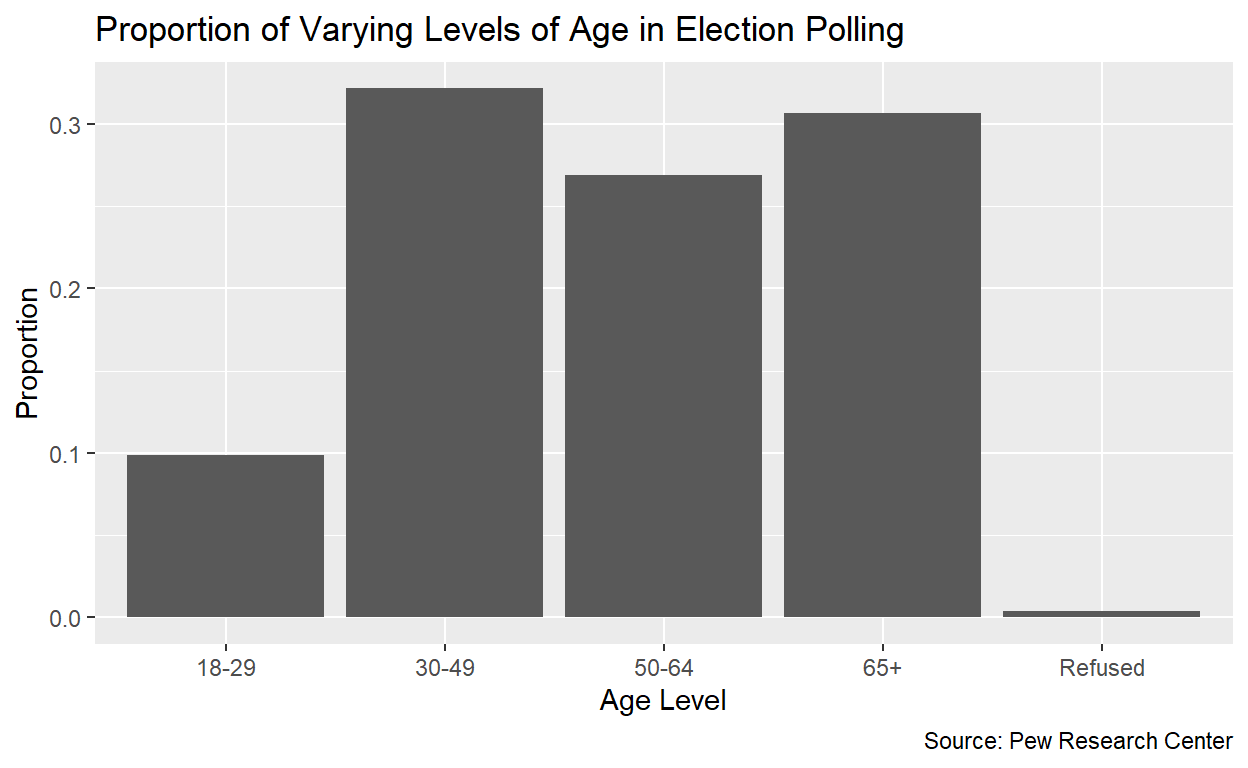
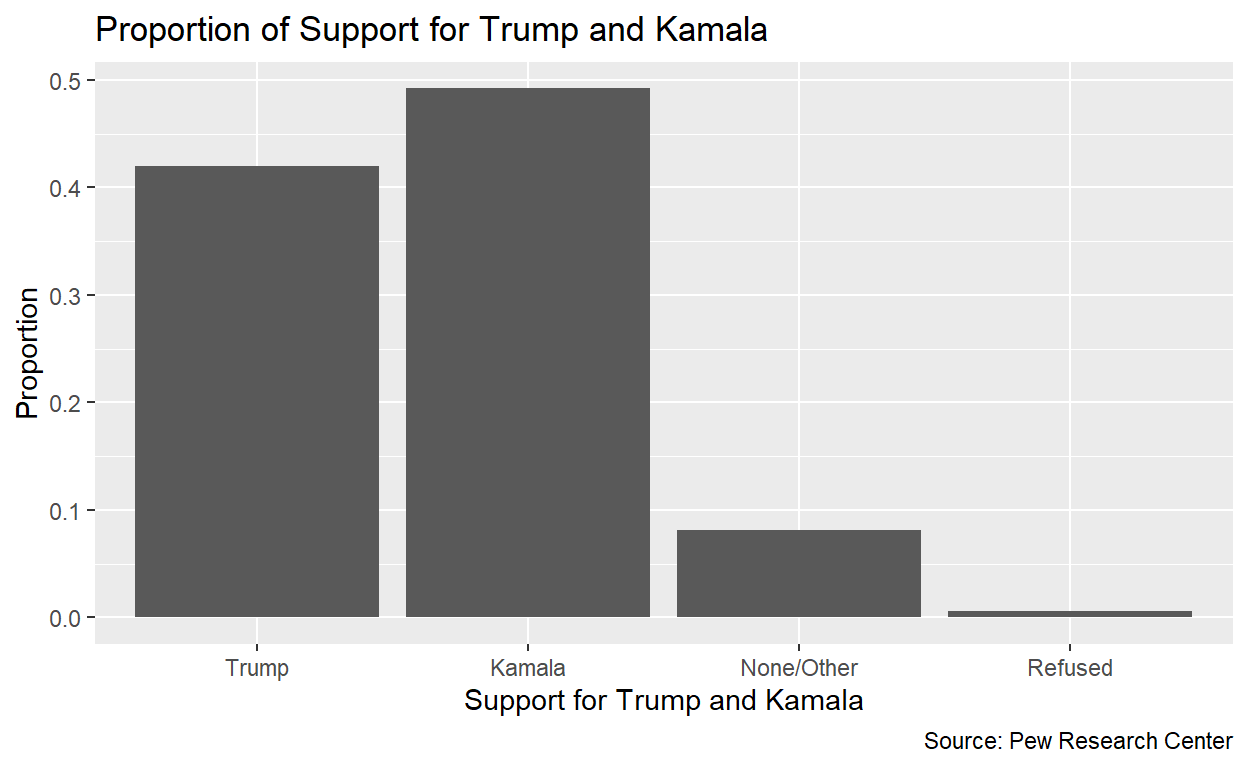
Completed Final Project

diff --git a/index.html b/index.html
@@ -116,7 +116,7 @@ code span.wa { color: #5e5e5e; font-style: italic; } /* Warning */
   <!--/radix_placeholder_rmarkdown_metadata-->
   
   <script type="text/json" id="radix-resource-manifest">
-  {"type":"character","attributes":{},"value":["ATP W153 Codebook.xlsx","ATP W153 Methodology.pdf","ATP W153 Questionnaire.pdf","ATP W153 Readme.txt","ATP W153.csv","ATP W153.sav","index_files/anchor-4.2.2/anchor.min.js","index_files/bowser-1.9.3/bowser.min.js","index_files/distill-2.2.21/template.v2.js","index_files/figure-html5/unnamed-chunk-3-1.png","index_files/figure-html5/unnamed-chunk-3-2.png","index_files/header-attrs-2.17/header-attrs.js","index_files/header-attrs-2.30/header-attrs.js","index_files/jquery-3.6.0/jquery-3.6.0.js","index_files/jquery-3.6.0/jquery-3.6.0.min.js","index_files/jquery-3.6.0/jquery-3.6.0.min.map","index_files/popper-2.6.0/popper.min.js","index_files/tippy-6.2.7/tippy-bundle.umd.min.js","index_files/tippy-6.2.7/tippy-light-border.css","index_files/tippy-6.2.7/tippy.css","index_files/tippy-6.2.7/tippy.umd.min.js","index_files/webcomponents-2.0.0/webcomponents.js"]}
+  {"type":"character","attributes":{},"value":["~$ATP W153 Codebook.xlsx","ATP W153 Codebook.xlsx","ATP W153 Methodology.pdf","ATP W153 Questionnaire.pdf","ATP W153 Readme.txt","ATP W153.csv","ATP W153.sav","index_files/anchor-4.2.2/anchor.min.js","index_files/bowser-1.9.3/bowser.min.js","index_files/distill-2.2.21/template.v2.js","index_files/figure-html5/unnamed-chunk-3-1.png","index_files/figure-html5/unnamed-chunk-3-2.png","index_files/figure-html5/unnamed-chunk-4-1.png","index_files/header-attrs-2.17/header-attrs.js","index_files/header-attrs-2.30/header-attrs.js","index_files/jquery-3.6.0/jquery-3.6.0.js","index_files/jquery-3.6.0/jquery-3.6.0.min.js","index_files/jquery-3.6.0/jquery-3.6.0.min.map","index_files/popper-2.6.0/popper.min.js","index_files/tippy-6.2.7/tippy-bundle.umd.min.js","index_files/tippy-6.2.7/tippy-light-border.css","index_files/tippy-6.2.7/tippy.css","index_files/tippy-6.2.7/tippy.umd.min.js","index_files/webcomponents-2.0.0/webcomponents.js"]}
   </script>
   <!--radix_placeholder_navigation_in_header-->
   <!--/radix_placeholder_navigation_in_header-->
@@ -1544,8 +1544,10 @@ code span.wa { color: #5e5e5e; font-style: italic; } /* Warning */
 </div>
 
 <div class="d-article">
-<h2 id="project-thoughts">Project thoughts</h2>
-<p>My research question is how do age and education impact a person’s participation in election opinion polls? My hypothesis is that older and more educated people participate at a higher rate in election opinion polls than younger and less educated people. I hypothesize this because older and more educated people generally have more time to participate in these and may have more interest. Someone who is older and possibly retired with a higher education level will have more time and knowledge/interest to participate in an election opinion poll. However, a younger people with a lower education level might have less time to participate and less interest. My explanatory variables are age and education and these are measured by a person’s age and the highest level of education they have completed. The outcome variable is the rate of participation of different groups of people in election opinion polls. This can be measured by seeing what proportion of people who participate are above or below a certain age or a certain level of education. Something that would support my hypothesis would be seeing groups of people who are older and more educated participating more in these polls than people who are younger and less educated. However, if I see that younger people with less education are participating more than I will see that my hypothesis is false. The data I will be using is from the Pew Research Center.</p>
+<h2 id="introduction">Introduction</h2>
+<p>My research question is how does someone’s education level impact their support for either Trump or Kamala in the 2024 presidential election? My hypothesis is that those who have a higher education level will tend to support Kamala more than they will support Trump. This can be important because if this poll were to show that the vast majority of people support Kamala over Trump but also the majority of the people who took this poll have a high level of education, the results showing significant support for Kamala might not be as credible.</p>
+<h2 id="data">Data</h2>
+<p>The data I will be using is an election opinion poll from Pew Research Center from just prior to the 2024 election gauging support for Trump and Kamala as well as various issues like healthcare, economy, and the Supreme Court. First I will look at the proportion of each education level of the participants in this particular poll as well as the proportion of support for Trump and Kamala indpendent of education level. Then I will sort this between the proportion of support for Kamala and the proportion of support for Trump.</p>
 <div class="layout-chunk" data-layout="l-body">
 
 </div>
@@ -1599,36 +1601,31 @@ code span.wa { color: #5e5e5e; font-style: italic; } /* Warning */
 <table>
 <thead>
 <tr class="header">
-<th style="text-align: left;">Age Level</th>
+<th style="text-align: left;">Candidate Support</th>
 <th style="text-align: right;">Number of Respondents</th>
 <th style="text-align: right;">Proportion</th>
 </tr>
 </thead>
 <tbody>
 <tr class="odd">
-<td style="text-align: left;">18-29</td>
-<td style="text-align: right;">959</td>
-<td style="text-align: right;">0.10</td>
+<td style="text-align: left;">Trump</td>
+<td style="text-align: right;">856</td>
+<td style="text-align: right;">0.42</td>
 </tr>
 <tr class="even">
-<td style="text-align: left;">30-49</td>
-<td style="text-align: right;">3128</td>
-<td style="text-align: right;">0.32</td>
+<td style="text-align: left;">Kamala</td>
+<td style="text-align: right;">1004</td>
+<td style="text-align: right;">0.49</td>
 </tr>
 <tr class="odd">
-<td style="text-align: left;">50-64</td>
-<td style="text-align: right;">2613</td>
-<td style="text-align: right;">0.27</td>
+<td style="text-align: left;">None/Other</td>
+<td style="text-align: right;">166</td>
+<td style="text-align: right;">0.08</td>
 </tr>
 <tr class="even">
-<td style="text-align: left;">65+</td>
-<td style="text-align: right;">2981</td>
-<td style="text-align: right;">0.31</td>
-</tr>
-<tr class="odd">
 <td style="text-align: left;">Refused</td>
-<td style="text-align: right;">39</td>
-<td style="text-align: right;">0.00</td>
+<td style="text-align: right;">13</td>
+<td style="text-align: right;">0.01</td>
 </tr>
 </tbody>
 </table>
@@ -1636,7 +1633,152 @@ code span.wa { color: #5e5e5e; font-style: italic; } /* Warning */
 <div class="layout-chunk" data-layout="l-body">
 <p><img src="index_files/figure-html5/unnamed-chunk-3-1.png" alt="" width="624" /><img src="index_files/figure-html5/unnamed-chunk-3-2.png" alt="" width="624" /></p>
 </div>
-<p>Based on these two tables and barplots, it can be seen that people between the ages of 18 and 29 respond to polls significantly less than those who are older than 30. About one third of respondents are older than 65, another third are between 30 and 49, and just over a quarter are between 50 and 64. Younger people between 18 and 29 make up only 10 percent of all responses. This shows that there is a correlation between age and how likely someone is to respond to a poll. A similar trend can be seen in regards to education. College and post graduates together make up just under half of all responses. Another 30 percent has either gone through some level of college or received an associates degree while there is only 21 percent of respondents who have received no college education at all. This is less significant than the data with ages, but it still shows a correlation where people who have continued their education after high school are more likely to respond to a poll just as people who are older than 30 are more likely to respond to a poll.</p>
+<p>These tables and plots show the overall proportion of each variable independent of each other. Based on these alone, it can be seen that the majority of respondents support Kamala and that there is a significant number who have received some sort of college education. This alone is not enough to prove anything and an analysis of the proportion of each education level and who they support is needed.</p>
+<h1 id="results">Results</h1>
+<p>This table and barplot both show the proportion of support for either Trump or Kamala based on education level, and there seems to be a trend of as people’s highest level of education increases, their support for Kamala also increases.</p>
+<div class="layout-chunk" data-layout="l-body">
+<table>
+<thead>
+<tr class="header">
+<th style="text-align: left;">Education Level</th>
+<th style="text-align: left;">Candidate Support</th>
+<th style="text-align: right;">Proportion</th>
+</tr>
+</thead>
+<tbody>
+<tr class="odd">
+<td style="text-align: left;">Less than HS</td>
+<td style="text-align: left;">Trump</td>
+<td style="text-align: right;">0.50</td>
+</tr>
+<tr class="even">
+<td style="text-align: left;">Less than HS</td>
+<td style="text-align: left;">Kamala</td>
+<td style="text-align: right;">0.50</td>
+</tr>
+<tr class="odd">
+<td style="text-align: left;">HS Grad</td>
+<td style="text-align: left;">Trump</td>
+<td style="text-align: right;">0.60</td>
+</tr>
+<tr class="even">
+<td style="text-align: left;">HS Grad</td>
+<td style="text-align: left;">Kamala</td>
+<td style="text-align: right;">0.40</td>
+</tr>
+<tr class="odd">
+<td style="text-align: left;">Some College</td>
+<td style="text-align: left;">Trump</td>
+<td style="text-align: right;">0.43</td>
+</tr>
+<tr class="even">
+<td style="text-align: left;">Some College</td>
+<td style="text-align: left;">Kamala</td>
+<td style="text-align: right;">0.57</td>
+</tr>
+<tr class="odd">
+<td style="text-align: left;">Assoc Degree</td>
+<td style="text-align: left;">Trump</td>
+<td style="text-align: right;">0.55</td>
+</tr>
+<tr class="even">
+<td style="text-align: left;">Assoc Degree</td>
+<td style="text-align: left;">Kamala</td>
+<td style="text-align: right;">0.45</td>
+</tr>
+<tr class="odd">
+<td style="text-align: left;">College Grad</td>
+<td style="text-align: left;">Trump</td>
+<td style="text-align: right;">0.41</td>
+</tr>
+<tr class="even">
+<td style="text-align: left;">College Grad</td>
+<td style="text-align: left;">Kamala</td>
+<td style="text-align: right;">0.59</td>
+</tr>
+<tr class="odd">
+<td style="text-align: left;">Postgrad</td>
+<td style="text-align: left;">Trump</td>
+<td style="text-align: right;">0.29</td>
+</tr>
+<tr class="even">
+<td style="text-align: left;">Postgrad</td>
+<td style="text-align: left;">Kamala</td>
+<td style="text-align: right;">0.71</td>
+</tr>
+</tbody>
+</table>
+<p><img src="index_files/figure-html5/unnamed-chunk-4-1.png" alt="" width="624" /></p>
+</div>
+<p>This alone is again not enough to definitively prove the hypothesis as it at most shows a trend but that is not enough to answer the question being asked. For this a regression model is needed, and a linear regression will be the best fit for this.</p>
+<div class="layout-chunk" data-layout="l-body">
+<table style="width:33%;">
+<colgroup>
+<col style="width: 20%" />
+<col style="width: 12%" />
+</colgroup>
+<thead>
+<tr class="header">
+<th></th>
+<th><ol type="1">
+<li></li>
+</ol></th>
+</tr>
+</thead>
+<tbody>
+<tr class="odd">
+<td>(Intercept)</td>
+<td>1.601</td>
+</tr>
+<tr class="even">
+<td>HS Grad</td>
+<td>-0.028</td>
+</tr>
+<tr class="odd">
+<td>Some College</td>
+<td>0.020</td>
+</tr>
+<tr class="even">
+<td>Assoc Degree</td>
+<td>-0.008</td>
+</tr>
+<tr class="odd">
+<td>College Grad</td>
+<td>0.093</td>
+</tr>
+<tr class="even">
+<td>Postgrad</td>
+<td>0.167</td>
+</tr>
+<tr class="odd">
+<td>Refused</td>
+<td>0.599</td>
+</tr>
+<tr class="even">
+<td>Num.Obs.</td>
+<td>8044</td>
+</tr>
+</tbody>
+</table>
+</div>
+<p>This regression output gives further evidence of the relationship between a higher level of education and support for Kamala. In the data, support for Trump is listed as 1 while support for Kamala is listed as 2 so an intercept of 1.601 shows more support for Kamala than for Trump. The coefficients show the percent that lean towards either Trump or Kamala. For example, those with a post graduate education are 16.7% more likely to support Kamala while those with only a high school graduation are 2.8% more likely to support Trump. To prove this hypothesis though, it is necessary to reject the null hypothesis. For this I will be listing anyone with an associates degree or higher as having “Higher Education” and those with only some college or a high school degree or neither as “No Higher Education”.</p>
+<div class="layout-chunk" data-layout="l-body">
+<table>
+<thead>
+<tr class="header">
+<th style="text-align: right;">P-Value</th>
+</tr>
+</thead>
+<tbody>
+<tr class="odd">
+<td style="text-align: right;">0</td>
+</tr>
+</tbody>
+</table>
+</div>
+<p>The p-value here is 0 and with an alpha value of 0.05 this shows that the null hypothesis can easily be rejected. The result of the effect of education on preference for either Trump or Kamala is very clear here.</p>
+<h2 id="conclusion">Conclusion</h2>
+<p>Based on this data, it can safely be said that a higher level of education leads to someone having a greater preference for Kamala Harris over Donald Trump. The plot showing the proportions, the linear regression, and the p-value all show that there education has a significant effect. This analysis does not account for confounding factors that could also be influencing support for one candidate or another. Some confounding factors that could be accounted for if there was more information could be geographic location, wealth, and age which could all influence preference for one candidate or another. Had I more time, money, and access to more data such as where the respondents live, certain confounding factors and bias’s could be accounted for and ruled out.</p>
 <div class="sourceCode" id="cb1"><pre class="sourceCode r distill-force-highlighting-css"><code class="sourceCode r"></code></pre></div>
 <!--radix_placeholder_article_footer-->
 <!--/radix_placeholder_article_footer-->
